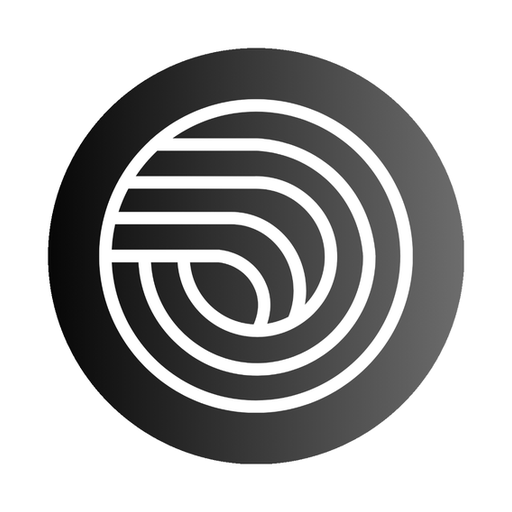
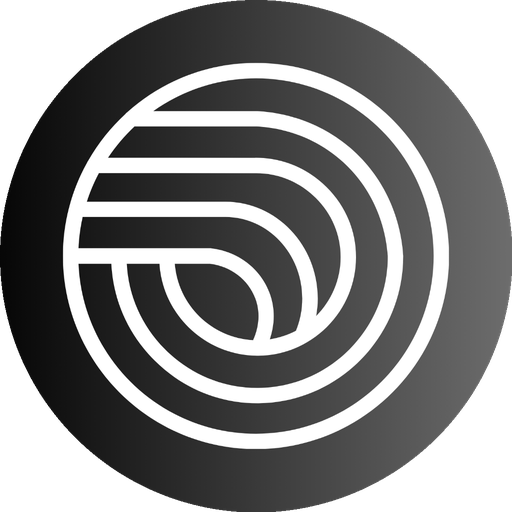
Resolve merge conflict

diff --git a/vite.config.js b/vite.config.js
@@ -13,7 +13,8 @@ export default defineConfig({
         name: 'Vital Route Installer',
         short_name: 'VitalRoute',
         description: 'Traffic Signal Installation Tool',
-        theme_color: '#6c5ce7',
+        theme_color: '#000000',
+        background_color: '#000000',
         icons: [
           {
             src: 'pwa-192x192.png',

diff --git a/scripts/make_circle_icon.py b/scripts/make_circle_icon.py
@@ -1,7 +1,7 @@
 from PIL import Image, ImageOps, ImageDraw
 import os
 
-def make_circle_icon(input_path, output_paths, border_ratio=0.05):
+def make_circle_icon(input_path, output_paths):
     try:
         # Open the image
         img = Image.open(input_path).convert("RGBA")
@@ -25,47 +25,11 @@ def make_circle_icon(input_path, output_paths, border_ratio=0.05):
         output = ImageOps.fit(img, mask.size, centering=(0.5, 0.5))
         output.putalpha(mask)
         
-        # Add border
-        # Create a new blank image with same size
-        bordered_output = Image.new("RGBA", (size, size), (0, 0, 0, 0))
-        
-        # Draw the main image onto it
-        bordered_output.paste(output, (0, 0), output)
-        
-        # Draw a white border ring
-        # We draw a new ellipse on top? No, that would cover content.
-        # Or we can draw a stroke.
-        
-        draw_border = ImageDraw.Draw(bordered_output)
-        border_width = int(size * border_ratio)
-        
-        # Draw the border stroke
-        # Note: PIL's ellipse outline is drawn inside the bounding box mostly, but stroke width alignment can be tricky.
-        # A simpler way for a "clean" border is to Resize the image down slightly and paste it on a white "circle" background.
-        
-        # METHOD 2: Composition
-        # 1. Create a white circle base
-        base = Image.new("RGBA", (size, size), (0, 0, 0, 0))
-        draw_base = ImageDraw.Draw(base)
-        draw_base.ellipse((0, 0, size, size), fill="white")
-        
-        # 2. Resize original circular image to be smaller
-        inner_size = size - (2 * border_width)
-        inner_img = output.resize((inner_size, inner_size), Image.Resampling.LANCZOS)
-        
-        # 3. Paste inner image onto base (centered)
-        offset = border_width
-        base.paste(inner_img, (offset, offset), inner_img)
-        
-        final_image = base
+        # No border logic anymore, final_image is just the masked output
+        final_image = output
         
         # Save to all outputs
         for path in output_paths:
-            # Resize if needed for specific PWA sizes, or just save provided size?
-            # The tool call implied we just overwrite existing files which might be big.
-            # Let's check filename for size hint, or just save original resolution (browser handles resizing usually fine for favicon, but PWA needs specifics)
-            
-            # Simple logic: if filename contains size (e.g. 192x192), resize to that.
             save_img = final_image
             filename = os.path.basename(path)
             
@@ -74,8 +38,7 @@ def make_circle_icon(input_path, output_paths, border_ratio=0.05):
             elif "512x512" in filename:
                 save_img = final_image.resize((512, 512), Image.Resampling.LANCZOS)
             else:
-                # Keep original high res for default icon.png, or maybe limit to 512?
-                # Let's keep it max 512 for main icon to avoid huge files
+                 # Keep it max 512 for main icon to avoid huge files
                 if final_image.width > 512:
                     save_img = final_image.resize((512, 512), Image.Resampling.LANCZOS)
             
@@ -87,18 +50,9 @@ def make_circle_icon(input_path, output_paths, border_ratio=0.05):
         exit(1)
 
 if __name__ == "__main__":
-    # Assuming the script is run from project root or checks paths relative to project root
-    # Adjust paths as needed based on where we run it.
-    # User uploaded image is in public/icon.png (we copied it there, but that's the destination too).
-    # Wait, we overwrote public/icon.png with the raw rect image. We should use that as input?
-    # Or better, use the original uploaded artifact if possible?
-    # The artifact path is constant: "C:/Users/JITENDRA/.gemini/antigravity/brain/698eccf7-f012-41f1-9321-e4d23f525c2a/uploaded_image_1768103286415.png"
-    # But for portability let's use the one we copied to public/icon.png as input, but it will be immediately overwritten.
-    # Safe bet: Read from public/icon.png (the square/rect one), process, and write back.
-    
     input_path = "e:/vital-route/public/icon.png"
     
-    # Check if input exists, if not try the temp copy we made, or fail
+    # Check if input exists
     if not os.path.exists(input_path):
         print(f"Input file not found: {input_path}")
         exit(1)
